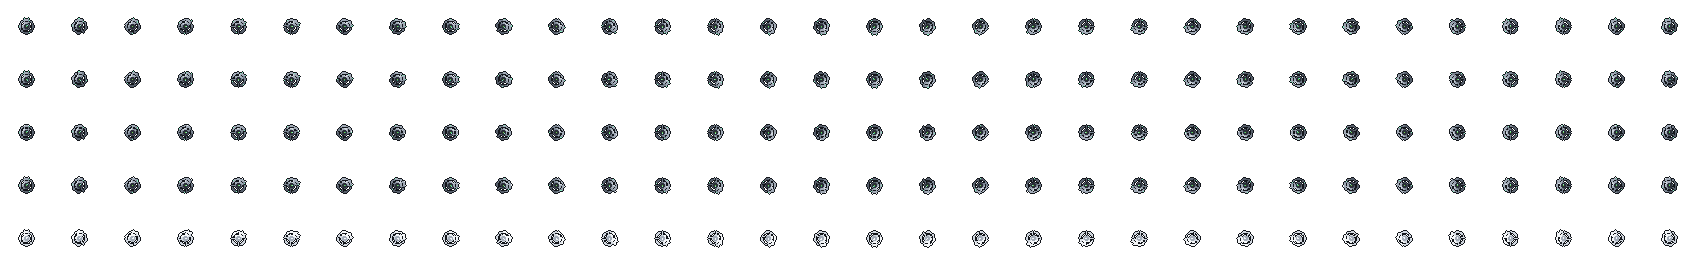
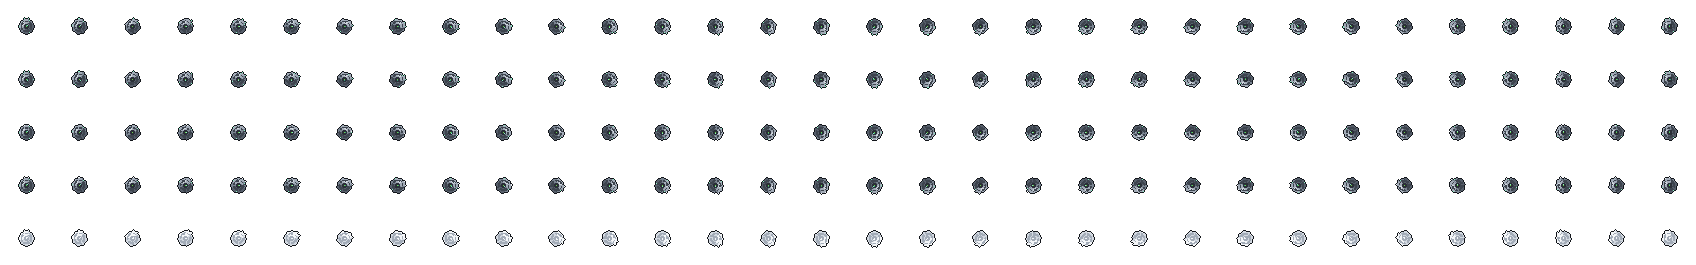
Drones: launch timing, scale and puff, trail, hit flash, defence drone layers, glow, hp bar, bar names
Claude-Session: https://claude.ai/code/session_013c7XcjREWKUsXeesNxoYEV

diff --git a/art/_src/drone_export.py b/art/_src/drone_export.py
@@ -68,6 +68,20 @@ def turned_frames(d):
     return out, S
 
 
+def export_defence_parts(d):
+    """a defence drone is two layers: the hoop, dome and backing (never turned) and the twin barrel (turned by the engine, 32 headings)."""
+    base = [d.frame(st, i, part='base')[0] for (st, i) in FRAMES]
+    save(sheet(base, len(base), base[0].w, base[0].h), '%s/%s_base.png' % (ART_D, d.name))
+    big = None
+    for r, (st, i) in enumerate(FRAMES):
+        spr = d.frame(st, i, raw=True, part='barrel')[0]
+        for k in range(ROTS):
+            t, G, h = ds.turned(spr, None, k * 360 // ROTS, dm.DC, dm.GP)
+            if big is None: big = Spr(t.w * ROTS, t.w * len(FRAMES))
+            big.stamp(k * t.w, r * t.w, t.rows())
+    save(big, '%s/%s_barrel_rot.png' % (ART_D, d.name))
+
+
 def export_drone(d):
     spr, gl = [], []
     for (st, i) in FRAMES:
@@ -88,6 +102,10 @@ def export_drone(d):
          'notes': 'A %s drone facing UP (nose = the way it flies and shoots), %dx%d px, pivot at its middle. Frames: idle 0-1, fire 0-1, hit (a white flash). <name>_rot.png holds %d pre-turned '
                   'copies of every frame (column k = turned k*%d degrees clockwise, row = frame, outlined after turning), so a turned drone does not jag at 2x; the glow strip is turned by the '
                   'engine (it is soft).' % (d.kind, dm.DN, dm.DN, ROTS, 360 // ROTS)}
+    if d.kind == 'defence':
+        export_defence_parts(d)
+        J['parts'] = {'base': d.name + '_base.png', 'barrel_rot': d.name + '_barrel_rot.png'}
+        J['notes'] += ' A defence drone is drawn in two layers: <name>_base.png (the dark backing, hoop and dome, never turned) and <name>_barrel_rot.png (the twin barrel, 32 headings); the full sprite above is for the bar and the cards.'
     write('%s/%s.json' % (ART_D, d.name), J)
     print(d.name, J['frame'], S)
 

diff --git a/art/_src/drone_mod.py b/art/_src/drone_mod.py
@@ -299,6 +299,14 @@ def pd_dome(c, tier):
     if c.line == 'scrap': rust_over(s, cx - 3, cy + 1, 2, 2); s.put(cx + 2, cy - 3, 'u')
     elif c.line == 'neon': s.put(cx - 3, cy - 1, 'c'); s.put(cx - 2, cy - 2, 'c'); s.put(cx - 1, cy - 3, 'c')
 
+def backing(c, tier):
+    """a dark backing disc inside the hoop (a defence drone must not read as a grey ring over a grey hull)."""
+    s = c.s; cx, cy = c.px, c.py
+    r = 6.0
+    for y in range(cy - 7, cy + 8):
+        for x in range(cx - 7, cx + 8):
+            if (x - cx) ** 2 + (y - cy) ** 2 < r * r: s.put(x, y, 'E')
+
 def pd_barrels(c, tier):
     """twin small barrels (the PD twin) over the hoop."""
     s = c.s; cx, cy = c.px, c.py; o = c.st.rc
@@ -319,13 +327,16 @@ class Drone:
     def variant(s, **kw):
         d = dict(name=s.name, fam=s.fam, tier=s.tier, gun=s.gun, add=s.add, kind=s.kind, label=s.label, line=s.line)
         d.update(kw); return Drone(**d)
-    def frame(s, state='idle', i=0, raw=False):
+    def frame(s, state='idle', i=0, raw=False, part=None):
         """-> (sprite, glow, anchors): the sprite on a DN x DN canvas (pivot (DC, DC)), its glow (pad GP), the muzzle and nozzle points.
         raw: the sprite without its outline (to turn it first and outline after, as the crew compositor does)."""
         st = DSt(state, i)
         c = Ctx(DN, DN, s.look, st); c.px, c.py = DC, DC; c.nozzles = []
         if s.kind == 'defence':
-            radar_ring(c, s.tier); pd_barrels(c, s.tier); pd_dome(c, s.tier)
+            if part != 'barrel': backing(c, s.tier)
+            if part != 'barrel': radar_ring(c, s.tier)
+            if part != 'base': pd_barrels(c, s.tier)
+            if part != 'barrel': pd_dome(c, s.tier)
         else:
             pods(c, s.tier)
             if 'fins' in s.add: fins(c, s.tier)

diff --git a/ASSETS.md b/ASSETS.md
@@ -1546,10 +1546,14 @@ Source and licence of every art and audio file in the repo.
 | `art/drones/beam_drone_mk3_rot.png` | original, made for Hullscrap (generator: `art/_src/`) | project-owned |
 | `art/drones/defence_drone_mk1.json` | original, made for Hullscrap (generator: `art/_src/`) | project-owned |
 | `art/drones/defence_drone_mk1.png` | original, made for Hullscrap (generator: `art/_src/`) | project-owned |
+| `art/drones/defence_drone_mk1_barrel_rot.png` | original, made for Hullscrap (generator: `art/_src/`) | project-owned |
+| `art/drones/defence_drone_mk1_base.png` | original, made for Hullscrap (generator: `art/_src/`) | project-owned |
 | `art/drones/defence_drone_mk1_glow.png` | original, made for Hullscrap (generator: `art/_src/`) | project-owned |
 | `art/drones/defence_drone_mk1_rot.png` | original, made for Hullscrap (generator: `art/_src/`) | project-owned |
 | `art/drones/defence_drone_mk2.json` | original, made for Hullscrap (generator: `art/_src/`) | project-owned |
 | `art/drones/defence_drone_mk2.png` | original, made for Hullscrap (generator: `art/_src/`) | project-owned |
+| `art/drones/defence_drone_mk2_barrel_rot.png` | original, made for Hullscrap (generator: `art/_src/`) | project-owned |
+| `art/drones/defence_drone_mk2_base.png` | original, made for Hullscrap (generator: `art/_src/`) | project-owned |
 | `art/drones/defence_drone_mk2_glow.png` | original, made for Hullscrap (generator: `art/_src/`) | project-owned |
 | `art/drones/defence_drone_mk2_rot.png` | original, made for Hullscrap (generator: `art/_src/`) | project-owned |
 | `art/drones/flak_drone_mk3.json` | original, made for Hullscrap (generator: `art/_src/`) | project-owned |
